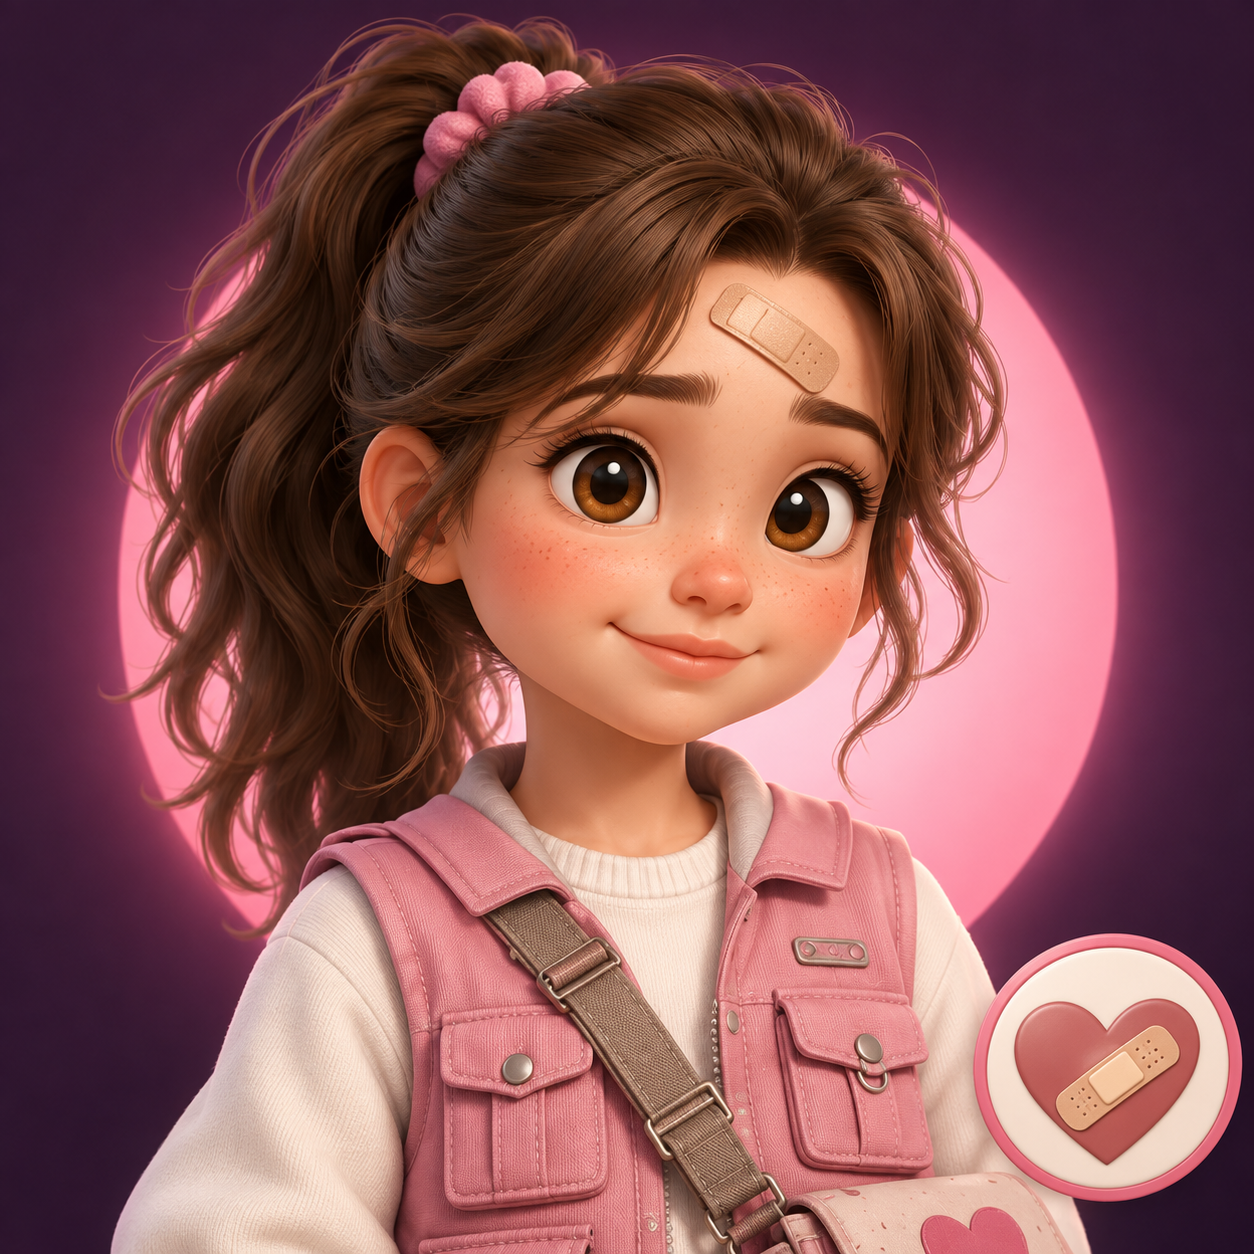
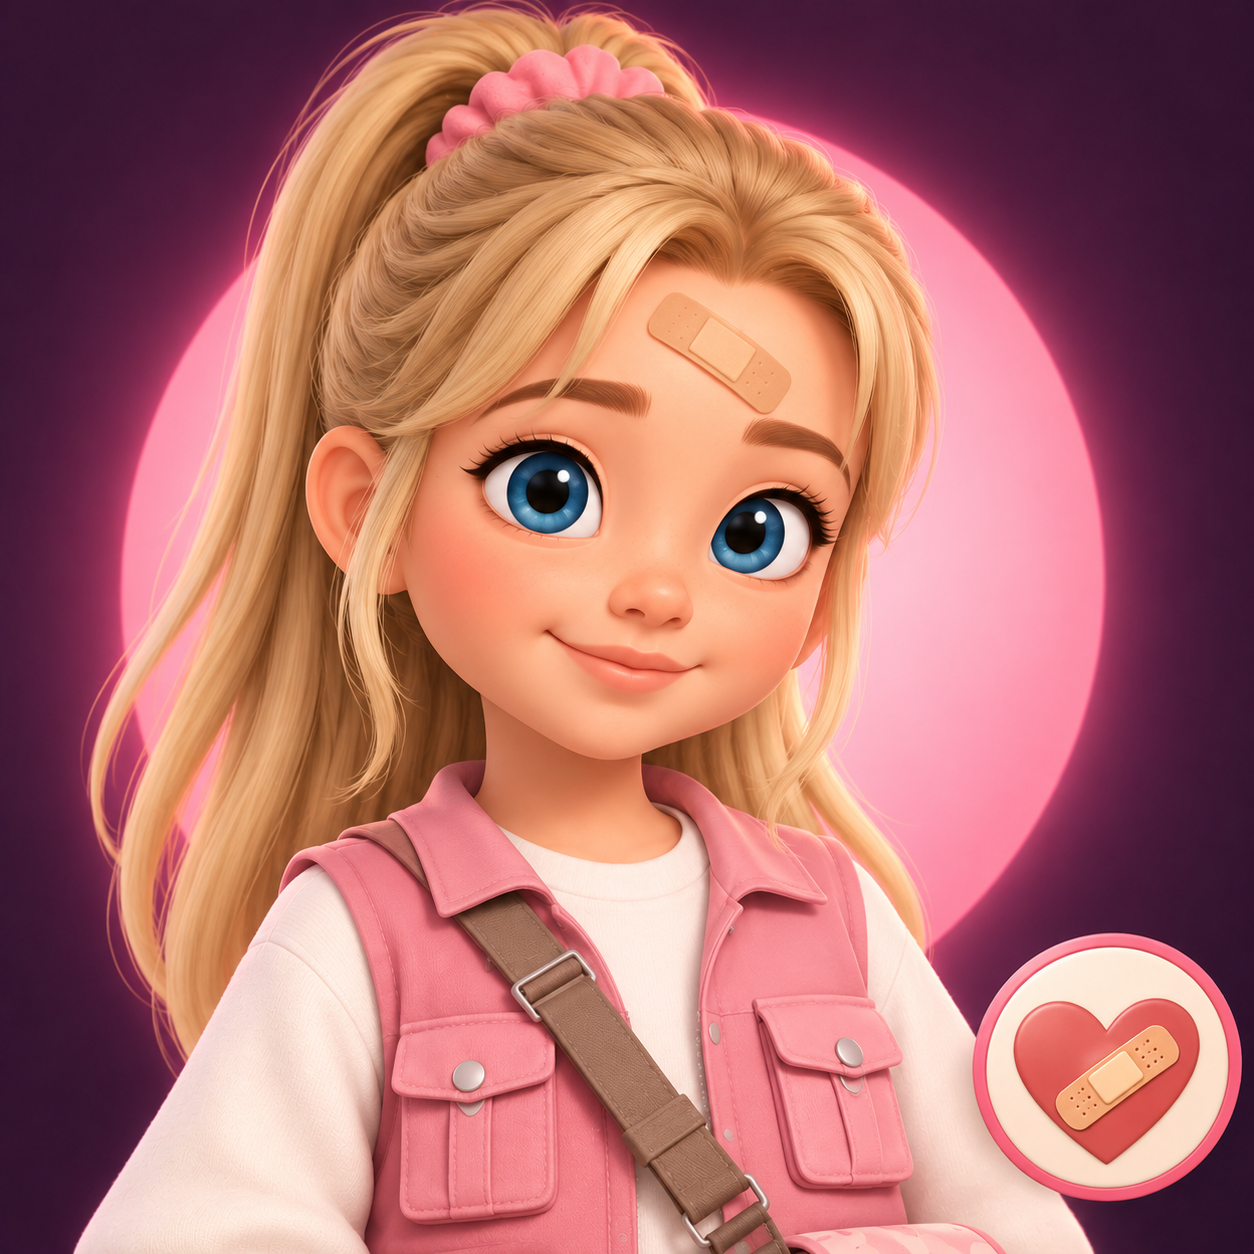
Patch remake pictures (portrait, Halloween Nurse Patch pass picture, skin front / back) checked; TOON_WORKFLOW: her orange pants have no pockets, and the plan after workflow 2 (check, import, try, switch over with CharactersOld, Save to Roblox ids for the Lobby, Patch's uploads, publish, then the 7 

diff --git a/TOON_WORKFLOW.md b/TOON_WORKFLOW.md
@@ -62,13 +62,16 @@ Table for each [Picture], [Reference] and [file name] combination is below:
 
 ## Workflow 2 - the 3D models
 
+For the seven core kid characters only, use `CORE_TOON_MODEL_WORKFLOW.md`.
+The full table below also includes Tinker and the Halloween Nurse Patch skin.
+
 Tinker's row remakes him from both pictures (it replaces the Meshy
 retexture). Run it for one character first (Tinker), check it in the game,
 then the rest. The rows describe the approved pictures (10 Oct): Shadow's
 plain black shoes, Muscle's plain red high-tops, Echo's plain joggers, and
 Patch's new look (blonde, blue eyes, light-blue jeans). The Halloween Nurse
-Patch row needs its two pictures from "Patch's new look" below first - skip
-it until Claude has checked them.
+Patch row uses the two pictures checked on 10 Oct (ready).
+
 
 ```
 create new workflow to create 3D models based on the [Model Standard], [Reference] and [Model]. For each model, attach both [Reference] pictures (the front picture and the back picture), then save the model to "C:\Users\bwood\OneDrive\Documents\Kids Games\Do You Know Where You Are\art\[folder]\[file name]". For example, C:\Users\bwood\OneDrive\Documents\Kids Games\Do You Know Where You Are\art\models\brainy-toon.glb.
@@ -83,7 +86,7 @@ Table for each [Model], [Reference] and [file name] combination is below:
 [Muscle, a strong, sturdy boy: spiky brown hair, yellow headband and wristbands, red T-shirt, black shorts, white socks, plain solid red high-top sneakers with white soles and white laces and no logo.] | [model-input\muscle\front-toon.png, model-input\muscle\back-toon.png] | [muscle-toon.glb]
 [Glow, a girl with a light: curly hair in a bun, green headband with a short antenna and a round yellow bulb, solid lime-green raincoat, round yellow chest lamp, dark olive pants, green rain boots.] | [model-input\glow\front-toon.png, model-input\glow\back-toon.png] | [glow-toon.glb]
 [Patch, a caring girl: long straight golden-blonde ponytail with a pink scrunchie, blue eyes, small forehead bandage, pink vest over a cream top, pink shoulder bag with a white heart, light-blue jeans, pink-and-cream sneakers.] | [model-input\patch\front-toon.png, model-input\patch\back-toon.png] | [patch-toon.glb]
-[Halloween Nurse Patch (a skin): the same blonde Patch in a dark gray cardigan over a black nurse top with a small orange pumpkin badge, a penlight on a cord, an orange jack-o'-lantern shoulder bag on a brown strap, an orange scrunchie, orange cargo jogger pants, white sneakers with small orange pumpkin dots.] | [model-input\halloween-nurse-patch\front-toon.png, model-input\halloween-nurse-patch\back-toon.png] | [halloween-nurse-patch-toon.glb]
+[Halloween Nurse Patch (a skin): the same blonde Patch in a dark gray cardigan over a black nurse top with a small orange pumpkin badge, a penlight on a cord, an orange jack-o'-lantern shoulder bag on a brown strap, an orange scrunchie, plain orange jogger pants with no pockets, white sneakers with small orange pumpkin dots.] | [model-input\halloween-nurse-patch\front-toon.png, model-input\halloween-nurse-patch\back-toon.png] | [halloween-nurse-patch-toon.glb]
 [Echo, a girl with headphones: curly hair in a bun, brass goggles on her head, purple headphones around her neck, yellow jacket over a plain purple hoodie, small black backpack, plain purple jogger pants, purple-and-yellow sneakers.] | [model-input\echo\front-toon.png, model-input\echo\back-toon.png] | [echo-toon.glb]
 [Bramble, a nature boy: crown of green leaves with a white flower, green poncho with a zigzag leaf edge, brown strap bag with acorns, brown cargo shorts, green socks, brown boots.] | [model-input\bramble\front-toon.png, model-input\bramble\back-toon.png] | [bramble-toon.glb]
 ```
@@ -103,6 +106,44 @@ Table for each [Model], [Reference] and [file name] combination is below:
 5. Claude adds it to `Config.STUDIO_TRY_MODEL` so you play it (Studio and
    live, only you); compare photos; if it wins, Claude switches it over
    (both places: the Lobby's Characters screen has its own copy).
+
+## After workflow 2 - the order of work
+
+1. **Claude checks every .glb** (renders front, back and side with
+   `tools/preview_glb.py`): the back matches the back picture, skin colored
+   arms, A-pose, nothing sticking out, triangles under 8,000, no logos.
+   Any that fail get a re-run of just that row.
+2. **Brent imports them into Party House** (Step 3 above), named
+   `TinkerToon`, `BrainyToon`, `ShadowToon`, `MuscleToon`, `GlowToon`,
+   `PatchToon`, `EchoToon`, `BrambleToon`, `PatchHalloweenToon`.
+3. **Claude switches all of them on for Brent only** (`STUDIO_TRY_MODEL`):
+   Studio and live, everyone else keeps the old ones.
+4. **Brent plays each one** (Studio, then live): photos front / back /
+   running, F9 Server lines (a broken model says `[Characters] ... died`
+   and the old one plays instead). Claude fixes walk / hip height / face
+   problems; a bad model gets its row re-run.
+5. **Switch over, one character at a time** (Party House):
+   - make a folder **ServerStorage -> CharactersOld** and drag the old model
+     (e.g. `Patch`) into it - out of `Characters`, so it is never picked by
+     mistake, but kept in case we go back;
+   - rename `PatchToon` to `Patch` (and `PatchHalloweenToon` to
+     `PatchHalloween`);
+   - right-click it -> **Save to Roblox** -> copy the new asset id to Claude.
+6. **Claude updates the code**: `Config.CHARACTER_ASSETS` (the Lobby's 3D
+   characters load from these ids), clears `STUDIO_TRY_MODEL`, tunes the
+   Lobby preview size (`Config.PREVIEW_SCALE`) and the plain-idle / plain-run
+   lists (`Config.ANIM`: the T-pose fixes may not be needed for A-pose models).
+7. **Patch's pictures**: upload the new `Patch.png` portrait in each place
+   (Claude gives the clicks) and the new Halloween Nurse Patch picture as the
+   Game Pass image in Creator Hub; Claude puts the two portrait ids in
+   `Config.PORTRAITS` / `Config.PORTRAITS_GAME`.
+8. **Publish both places**, a live test of the Lobby Characters screen (3D
+   models, Skins window) and a game with each character.
+9. **Then the other 7 skins** (Pumpkin Patch Tinker, Ghostly Shadow, Candy
+   Glow, Space Cadet Brainy, Snow Day Muscle, Starlight Echo, Autumn Leaf
+   Bramble) the same way - workflow 1 rows from their skin pictures, then
+   workflow 2 - so skins match the new look. Decision for Brent: all at once
+   or after the 8 characters are live.
 
 ## Patch's new look (Brent, 10 Oct): her pictures to remake
 
@@ -127,6 +168,6 @@ Table for each [Picture], [Reference] and [file name] combination is below:
 [Picture] | [Reference] | [file name]
 [PORTRAIT, square: Patch from the chest up, turned slightly toward the camera, in her pink vest with pockets over a cream long-sleeve top, the brown strap of her shoulder bag across her chest. Behind her a soft glowing pink circle on a deep plum-purple background. In the bottom-right corner a round badge: a cream circle with a pink heart and a small bandage across it. Lay it out exactly like the attached old portrait - same framing, glow and badge - with Patch's new look.] | [model-input\patch\front-toon.png, roblox-store\portraits\Patch.png] | [roblox-store\portraits\Patch.png]
 [SKIN PICTURE, square, for "Halloween Nurse Patch": Patch from the waist up, wearing the Halloween nurse outfit from the attached outfit picture - a dark gray cardigan over a black nurse top with a small orange pumpkin badge, a little penlight on a cord, an orange shoulder bag with a friendly jack-o'-lantern face on a brown strap, an orange scrunchie. Inside a big circle with a glowing orange-to-plum background and a few soft white dots, on a dark background - laid out exactly like the attached old skin picture, with Patch's new look.] | [model-input\patch\front-toon.png, model-input\halloween-nurse-patch\a-pose-front.png, roblox-store\passes\pass-halloween-nurse-patch.png] | [roblox-store\passes\pass-halloween-nurse-patch.png]
-[FRONT view, full body, for the 3D skin: Patch in the Halloween nurse outfit from the attached outfit picture - dark gray cardigan over a black nurse top with a small orange pumpkin badge, a penlight on a cord, an orange jack-o'-lantern shoulder bag on a brown strap, orange cargo jogger pants, white sneakers with small orange pumpkin dots, an orange scrunchie. Every area one flat solid color. Standing in an A-pose: arms straight and angled down and away from the body, hands open, legs slightly apart, feet flat; facing the camera straight on; centered and filling the whole height. Plain flat light-gray background, even soft light, no floor shadow.] | [model-input\patch\front-toon.png, model-input\halloween-nurse-patch\a-pose-front.png] | [model-input\halloween-nurse-patch\front-toon.png]
-[BACK view, full body, for the 3D skin: the same Patch in the same Halloween nurse outfit as the attached front view, seen from directly behind in the same A-pose - the long blonde ponytail with the orange scrunchie, the back of the gray cardigan with the bag strap across it, orange pants, white-and-orange sneakers. Every color the same as the front. Plain flat light-gray background, even soft light.] | [model-input\halloween-nurse-patch\front-toon.png] | [model-input\halloween-nurse-patch\back-toon.png]
+[FRONT view, full body, for the 3D skin: Patch in the Halloween nurse outfit from the attached outfit picture - dark gray cardigan over a black nurse top with a small orange pumpkin badge, a penlight on a cord, an orange jack-o'-lantern shoulder bag on a brown strap, plain orange jogger pants with no pockets, white sneakers with small orange pumpkin dots, an orange scrunchie. Every area one flat solid color. Standing in an A-pose: arms straight and angled down and away from the body, hands open, legs slightly apart, feet flat; facing the camera straight on; centered and filling the whole height. Plain flat light-gray background, even soft light, no floor shadow.] | [model-input\patch\front-toon.png, model-input\halloween-nurse-patch\a-pose-front.png] | [model-input\halloween-nurse-patch\front-toon.png]
+[BACK view, full body, for the 3D skin: the same Patch in the same Halloween nurse outfit as the attached front view, seen from directly behind in the same A-pose - the long blonde ponytail with the orange scrunchie, the back of the gray cardigan with the bag strap across it, plain orange jogger pants, white-and-orange sneakers. Every color the same as the front. Plain flat light-gray background, even soft light.] | [model-input\halloween-nurse-patch\front-toon.png] | [model-input\halloween-nurse-patch\back-toon.png]
 ```

diff --git a/CORE_TOON_MODEL_WORKFLOW.md b/CORE_TOON_MODEL_WORKFLOW.md
@@ -1,0 +1,24 @@
+# Core toon 3D model workflow
+
+Use this workflow to make the seven core kid character `.glb` files from the
+approved front and back toon pictures. Attach the front picture first and the
+back picture second for each row.
+
+```
+create new workflow to create 3D models based on the [Model Standard], [Reference] and [Model]. For each model, attach both [Reference] pictures (the front picture and the back picture), then save the model to "C:\Users\bwood\OneDrive\Documents\Kids Games\Do You Know Where You Are\art\[folder]\[file name]". For example, C:\Users\bwood\OneDrive\Documents\Kids Games\Do You Know Where You Are\art\models\brainy-toon.glb.
+The [Model Standard] will be included with every model prompt. The [Model] prompt is added to [Model Standard] and changes per model. The [Reference] and [file name] are defined per model.
+[Model Standard] = "Use the attached pictures to create a 3D model of the character for a Roblox game: the first picture is the FRONT, the second is the BACK. Copy both pictures exactly - the same character, shapes, colors and accessories; the back of the model must match the back picture (never guess its colors). Art style / texture style: Cartoon (stylized). Every area one flat, solid color in a single base-color (albedo) texture; PBR off - no normal, roughness, metallic or bump maps. Remove lighting / delight on - no lighting, shadows, ambient occlusion or dark creases baked into the colors. Skin on the face, neck, arms, hands and legs in the warm skin tone of the pictures (never pale gray or white). No logos, brand marks, printed words or graphics. Pose: A-pose - arms straight, angled about 45 degrees down and away from the body and not touching it, hands open with the fingers together, legs slightly apart, feet flat; left and right sides symmetrical. Front facing: the face looks straight forward toward the front picture's camera; the character stands upright with the feet at the bottom of the model. One single closed mesh with no separate floating pieces; no skeleton, no rig, no animation; no floor, stand or background. Polycount: the lower option - about 5,000 to 8,000 triangles. One 1024 x 1024 texture embedded in the file. Keep accessories close to the body (no big brims, bags or antennas sticking far out); the face clearly visible, not covered by hair, hats or goggles. Save as a .glb file."
+[folder]="models"
+Table for each [Model], [Reference] and [file name] combination is below:
+[Model] | [Reference] | [file name]
+[Brainy, a clever boy: round black glasses, red beanie with a small blue propeller, a pencil behind his ear, white lab coat over a light-blue sweater, khaki cargo pants, red sneakers.] | [model-input\brainy\front-toon.png, model-input\brainy\back-toon.png] | [brainy-toon.glb]
+[Shadow, a sneaky boy: purple hoodie with the hood up, black face mask, purple fingerless gloves, black jogger pants, plain black sneakers with purple laces and no stripes.] | [model-input\shadow\front-toon.png, model-input\shadow\back-toon.png] | [shadow-toon.glb]
+[Muscle, a strong, sturdy boy: spiky brown hair, yellow headband and wristbands, red T-shirt, black shorts, white socks, plain solid red high-top sneakers with white soles and white laces and no logo.] | [model-input\muscle\front-toon.png, model-input\muscle\back-toon.png] | [muscle-toon.glb]
+[Glow, a girl with a light: curly hair in a bun, green headband with a short antenna and a round yellow bulb, solid lime-green raincoat, round yellow chest lamp, dark olive pants, green rain boots.] | [model-input\glow\front-toon.png, model-input\glow\back-toon.png] | [glow-toon.glb]
+[Patch, a caring girl: long straight golden-blonde ponytail with a pink scrunchie, blue eyes, small forehead bandage, pink vest over a cream top, pink shoulder bag with a white heart, light-blue jeans, pink-and-cream sneakers.] | [model-input\patch\front-toon.png, model-input\patch\back-toon.png] | [patch-toon.glb]
+[Echo, a girl with headphones: curly hair in a bun, brass goggles on her head, purple headphones around her neck, yellow jacket over a plain purple hoodie, small black backpack, plain purple jogger pants, purple-and-yellow sneakers.] | [model-input\echo\front-toon.png, model-input\echo\back-toon.png] | [echo-toon.glb]
+[Bramble, a nature boy: crown of green leaves with a white flower, green poncho with a zigzag leaf edge, brown strap bag with acorns, brown cargo shorts, green socks, brown boots.] | [model-input\bramble\front-toon.png, model-input\bramble\back-toon.png] | [bramble-toon.glb]
+```
+
+After each model is saved, send the `.glb` to Claude for rendering and checks
+before importing it into Roblox Studio.
